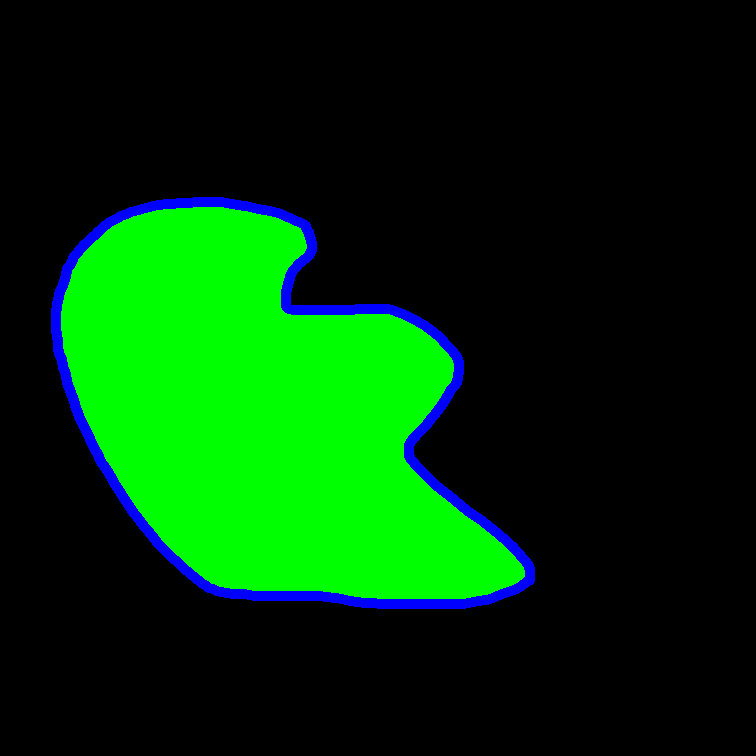
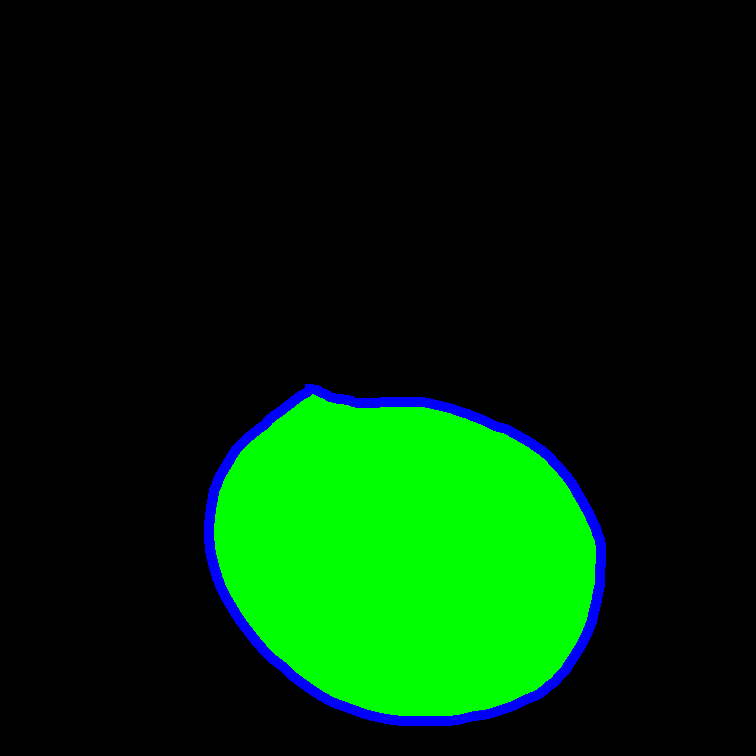
update container交互

Changed region(s): [[0.0608, 0.2434, 0.8214, 0.9735]]

diff --git a/client/src/stores/canvas.ts b/client/src/stores/canvas.ts
@@ -1,0 +1,113 @@
+import { defineStore } from 'pinia'
+import { ref } from 'vue'
+import { useSelectedModeStore } from '~/stores/selectedMode'
+import { useBezierDrawingStore } from '~/stores/bezierDrawing'
+import { useBackgroundStore } from '~/stores/background'
+import { useCanvasModeStore } from '~/stores/canvasMode'
+
+export const useCanvasStore = defineStore('canvas', () => {
+  const canvasRef = ref<(() => Canvas | null) | null>(null)
+  const containerColor = ref([180, 180, 180, 0.6])
+  
+  // 导入其他 store
+  const selectedModeStore = useSelectedModeStore()
+  const bezierDrawingStore = useBezierDrawingStore()
+  const backgroundStore = useBackgroundStore()
+  const canvasModeStore = useCanvasModeStore()
+
+  // 设置 canvas 引用
+  function setCanvas(canvas: () => Canvas | null) {
+    canvasRef.value = canvas
+  }
+
+  function setDrawedObjectDataType(e) {
+    // 监听绘制完成事件，为绘制的路径设置dataType
+    const canvasInstance = canvasRef.value?.()
+    if (!canvasInstance) return 
+    // object:added 事件中，对象在 e.target 中
+    const path = e.target; 
+    if (path) {
+      // 如果是贝塞尔模式，创建多段贝塞尔曲线
+      if (canvasModeStore.mode === 'bezier') {
+        // 检查是否正在创建贝塞尔曲线，防止递归调用
+        if (!bezierDrawingStore.isCreatingBezier) {
+          bezierDrawingStore.createBezierFromPath(path)
+        }
+        return
+      }
+      if (backgroundStore.creatingBackground) {
+        path.set('dataType', 'background')
+        return
+      }
+      if(path.get('dataType') === 'marker'){ 
+        return
+      }
+      // 根据当前选择的模式设置dataType
+      path.set('dataType', selectedModeStore.selectedMode);
+
+      // 应用当前模式的透明度规则
+      selectedModeStore.handleModeSwitch(selectedModeStore.selectedMode);
+    }
+  }
+
+  function adjustLayer() {
+    const canvasInstance = canvasRef.value?.()
+    if (!canvasInstance) return
+    
+    // 获取画布上的所有对象
+    const objects = canvasInstance.getObjects()
+    
+    // 按 dataType 分组对象
+    const backgroundObjects = []
+    const containerObjects = []
+    const otherObjects = []
+    
+    objects.forEach(obj => {
+      const dataType = obj.get('dataType')
+      if (dataType === 'background') {
+        backgroundObjects.push(obj)
+      } else if (dataType === 'container') {
+        containerObjects.push(obj)
+      } else {
+        otherObjects.push(obj)
+      }
+    })
+    
+    // 将 background 对象移动到最底层
+    backgroundObjects.forEach(obj => {
+      canvasInstance.sendObjectToBack(obj, true)
+    })
+    
+    // 将 container 对象移动到 background 之上，其他对象之下
+    containerObjects.forEach(obj => {
+      // 先移动到最底层
+      canvasInstance.sendObjectToBack(obj, true)
+      // 然后根据 background 对象的数量，将 container 对象向前移动相应次数
+      if (backgroundObjects.length > 0) {
+        for (let i = 0; i < backgroundObjects.length; i++) {
+          canvasInstance.bringObjectForward(obj)
+        }
+      }
+    })
+    
+    // 其他对象保持相对层级在顶层
+    // 不需要额外操作，因为它们在 container 对象之上
+    
+    // 重新渲染画布
+    canvasInstance.renderAll()
+    
+    console.log('层级调整完成:', {
+      background: backgroundObjects.length,
+      container: containerObjects.length,
+      other: otherObjects.length
+    })
+  }
+
+  return {
+    canvasRef,
+    containerColor,
+    setCanvas,
+    setDrawedObjectDataType,
+    adjustLayer
+  }
+})

diff --git a/client/src/stores/canvasMode.ts b/client/src/stores/canvasMode.ts
@@ -6,10 +6,10 @@ import { useBrushSizeStore } from '~/stores/brushsize'
 import { useBezierDrawingStore } from '~/stores/bezierDrawing'
 import { useForceDrawingStore } from '~/stores/forceDrawing'
 import { useBackgroundStore } from '~/stores/background'
+import { useCanvasStore } from '~/stores/canvas'
 export const useCanvasModeStore = defineStore('canvasMode', () => {
   const mode = ref<'draw' | 'move' | 'erase' | 'rect' | 'ellipse' | 'bezier' | 'force' | null>(null)
   const canvasRef = ref<(() => Canvas | null) | null>(null)
-  const containerColor = ref([200, 200, 200, 0.6])
   // 导入其他 store
   const selectedModeStore = useSelectedModeStore()
   const colorPickerStore = useColorPickerStore()
@@ -17,6 +17,7 @@ export const useCanvasModeStore = defineStore('canvasMode', () => {
   const bezierDrawingStore = useBezierDrawingStore()
   const forceDrawingStore = useForceDrawingStore()
   const backgroundStore = useBackgroundStore()
+  const canvasStore = useCanvasStore()
   // 设置 canvas 引用
   function setCanvas(canvas: () => Canvas | null) {
     canvasRef.value = canvas
@@ -42,7 +43,7 @@ export const useCanvasModeStore = defineStore('canvasMode', () => {
       canvasInstance.getObjects().forEach(obj => { obj.selectable = false; obj.evented = false; });
       if (canvasInstance.freeDrawingBrush) {
         // Container模式下使用黑色，Marker模式下使用选择的颜色
-        canvasInstance.freeDrawingBrush.color = selectedModeStore.isContainerMode ? 'rgba(' + containerColor.value.join(',') + ')' : colorPickerStore.selectedColor;
+        canvasInstance.freeDrawingBrush.color = selectedModeStore.isContainerMode ? 'rgba(' + canvasStore.containerColor.join(',') + ')' : colorPickerStore.selectedColor;
         canvasInstance.freeDrawingBrush.width = brushSizeStore.brushWidth * dpr;
       }
     } else if (m === 'erase') {
@@ -94,97 +95,12 @@ export const useCanvasModeStore = defineStore('canvasMode', () => {
     canvasInstance.renderAll();
   }
 
-  
-  function setDrawedObjectDataType(e) {
-    // 监听绘制完成事件，为绘制的路径设置dataType
-    const canvasInstance = canvasRef.value?.()
-    if (!canvasInstance) return 
-    // object:added 事件中，对象在 e.target 中
-    const path = e.target; 
-    if (path) {
-      // 如果是贝塞尔模式，创建多段贝塞尔曲线
-      if (mode.value === 'bezier') {
-        // 检查是否正在创建贝塞尔曲线，防止递归调用
-        if (!bezierDrawingStore.isCreatingBezier) {
-          bezierDrawingStore.createBezierFromPath(path)
-        }
-        return
-      }
-      if (backgroundStore.creatingBackground) {
-        path.set('dataType', 'background')
-        return
-      }
-      if(path.get('dataType') === 'marker'){ 
-        return
-      }
-      // 根据当前选择的模式设置dataType
-      path.set('dataType', selectedModeStore.selectedMode);
 
-      // 应用当前模式的透明度规则
-      selectedModeStore.handleModeSwitch(selectedModeStore.selectedMode);
-    }
-  }
-
-  function adjustLayer() {
-    const canvasInstance = canvasRef.value?.()
-    if (!canvasInstance) return
-    
-    // 获取画布上的所有对象
-    const objects = canvasInstance.getObjects()
-    
-    // 按 dataType 分组对象
-    const backgroundObjects = []
-    const containerObjects = []
-    const otherObjects = []
-    
-    objects.forEach(obj => {
-      const dataType = obj.get('dataType')
-      if (dataType === 'background') {
-        backgroundObjects.push(obj)
-      } else if (dataType === 'container') {
-        containerObjects.push(obj)
-      } else {
-        otherObjects.push(obj)
-      }
-    })
-    
-    // 将 background 对象移动到最底层
-    backgroundObjects.forEach(obj => {
-      canvasInstance.sendObjectToBack(obj, true)
-    })
-    
-    // 将 container 对象移动到 background 之上，其他对象之下
-    containerObjects.forEach(obj => {
-      // 先移动到最底层
-      canvasInstance.sendObjectToBack(obj, true)
-      // 然后根据 background 对象的数量，将 container 对象向前移动相应次数
-      if (backgroundObjects.length > 0) {
-        for (let i = 0; i < backgroundObjects.length; i++) {
-          canvasInstance.bringObjectForward(obj)
-        }
-      }
-    })
-    
-    // 其他对象保持相对层级在顶层
-    // 不需要额外操作，因为它们在 container 对象之上
-    
-    // 重新渲染画布
-    canvasInstance.renderAll()
-    
-    console.log('层级调整完成:', {
-      background: backgroundObjects.length,
-      container: containerObjects.length,
-      other: otherObjects.length
-    })
-  }
 
   return {
     mode,
     setMode,
     setCanvas,
-    setDrawedObjectDataType,
-    adjustLayer,
-    canvasRef,
-    containerColor
+    canvasRef
   }
 }) 

diff --git a/client/src/components/CanvasArea.vue b/client/src/components/CanvasArea.vue
@@ -8,6 +8,7 @@ import { useSelectedModeStore } from '~/stores/selectedMode'
 import { useBrushSizeStore } from '~/stores/brushsize'
 import { useCollageSeriesStore } from '~/stores/collageSeries'
 import { useCanvasModeStore } from '~/stores/canvasMode'
+import { useCanvasStore } from '~/stores/canvas'
 import { useShapeDrawingStore } from '~/stores/shapeDrawing'
 import { useBezierDrawingStore } from '~/stores/bezierDrawing'
 import { useForceDrawingStore } from '~/stores/forceDrawing'
@@ -33,8 +34,10 @@ const {
 } = collageSeriesStore
 
 const canvasModeStore = useCanvasModeStore()
+const canvasStore = useCanvasStore()
 const { mode } = storeToRefs(canvasModeStore)
-const { setMode, setDrawedObjectDataType, adjustLayer } = canvasModeStore
+const { setMode } = canvasModeStore
+const { setDrawedObjectDataType, adjustLayer, containerColor } = canvasStore
 
 const objectActionsStore = useObjectActionsStore()
 const {
@@ -121,6 +124,20 @@ function addCanvasEventListeners() {
     },
     'object:removed': () => {
       updateCurrentSlide()
+    },
+    'mouse:over': (e) => {
+      // 鼠标悬停在对象上时添加偏透明蓝色效果
+      if (e.target && e.target.get('dataType') === 'container') {
+        e.target.set('opacity', 0.7)
+        canvas.renderAll()
+      }
+    },
+    'mouse:out': (e) => {
+      // 鼠标离开对象时恢复原始透明度
+      if (e.target && e.target.get('dataType') === 'container') {
+        e.target.set('opacity', 1)      
+        canvas.renderAll()
+      }
     }
   })
 }
@@ -134,6 +151,8 @@ function removeCanvasEventListeners() {
   canvas.off('object:modified')
   canvas.off('object:added')
   canvas.off('object:removed')
+  canvas.off('mouse:over')
+  canvas.off('mouse:out')
 }
 watch(collaging, (newVal) => {
   if (newVal) {
@@ -332,6 +351,7 @@ onMounted(async () => {
     bezierDrawingStore.setCanvas(() => canvas)
     forceDrawingStore.setCanvas(() => canvas)
     backgroundStore.setCanvas(() => canvas)
+    canvasStore.setCanvas(() => canvas)
     // 初始化空白幻灯片
     initializeEmptySlide()
     addCanvasEventListeners()

diff --git a/client/src/stores/shapeDrawing.ts b/client/src/stores/shapeDrawing.ts
@@ -1,10 +1,12 @@
 import { defineStore } from 'pinia'
 import { useColorPickerStore } from '~/stores/colorpicker'  
 import { useCanvasModeStore } from '~/stores/canvasMode' 
+import { useCanvasStore } from '~/stores/canvas'
 import { Rect, Ellipse } from 'fabric'
 export const useShapeDrawingStore = defineStore('shapeDrawing', () => {
     const colorPickerStore = useColorPickerStore() 
     const canvasModeStore = useCanvasModeStore()
+    const canvasStore = useCanvasStore()
     const isDrawingShape = ref(false)
     const shapeStart = ref<{ x: number, y: number } | null>(null)
     const previewShape = ref<any>(null)
@@ -21,7 +23,7 @@ export const useShapeDrawingStore = defineStore('shapeDrawing', () => {
       isDrawingShape.value = true
       const pointer = canvasInstance.getPointer(e)
       shapeStart.value = { x: pointer.x, y: pointer.y }
-      const containerColor = canvasModeStore.containerColor
+      const containerColor = canvasStore.containerColor
       const strokeColor = 'rgba(' + containerColor.join(',') + ')'
       // 创建预览形状
       if (canvasModeStore.mode === 'rect') {
@@ -89,7 +91,7 @@ export const useShapeDrawingStore = defineStore('shapeDrawing', () => {
       const pointer = canvasInstance.getPointer(e)
       const startX = shapeStart.value.x
       const startY = shapeStart.value.y
-      const containerColor = canvasModeStore.containerColor
+      const containerColor = canvasStore.containerColor
       const strokeColor = 'rgba(' + containerColor.join(',') + ')'
       let shapeObj = null
       if (canvasModeStore.mode === 'rect') {

diff --git a/client/src/composables/server.ts b/client/src/composables/server.ts
@@ -6,6 +6,7 @@ import { useAnimationStore } from '~/stores/animation'
 import { useSelectedModeStore } from '~/stores/selectedMode'
 import { useMarkerStore } from '~/stores/marker'
 import { useCanvasModeStore } from '~/stores/canvasMode'
+import { useCanvasStore } from '~/stores/canvas'
 // 定义数据类型接口
 interface ProcessedData {
   markers: Array<{
@@ -330,8 +331,8 @@ export async function sendDataToServer(): Promise<boolean> {
 }
 
 export async function sendUploadContainerToServer(stringBase64: string) {
-  const canvasModeStore = useCanvasModeStore()
-  const { containerColor } = storeToRefs(canvasModeStore)
+  const canvasStore = useCanvasStore()
+  const { containerColor } = storeToRefs(canvasStore)
   const response = await fetch('http://localhost:5000/uploadContainerApi', {
     method: 'POST',
     headers: {